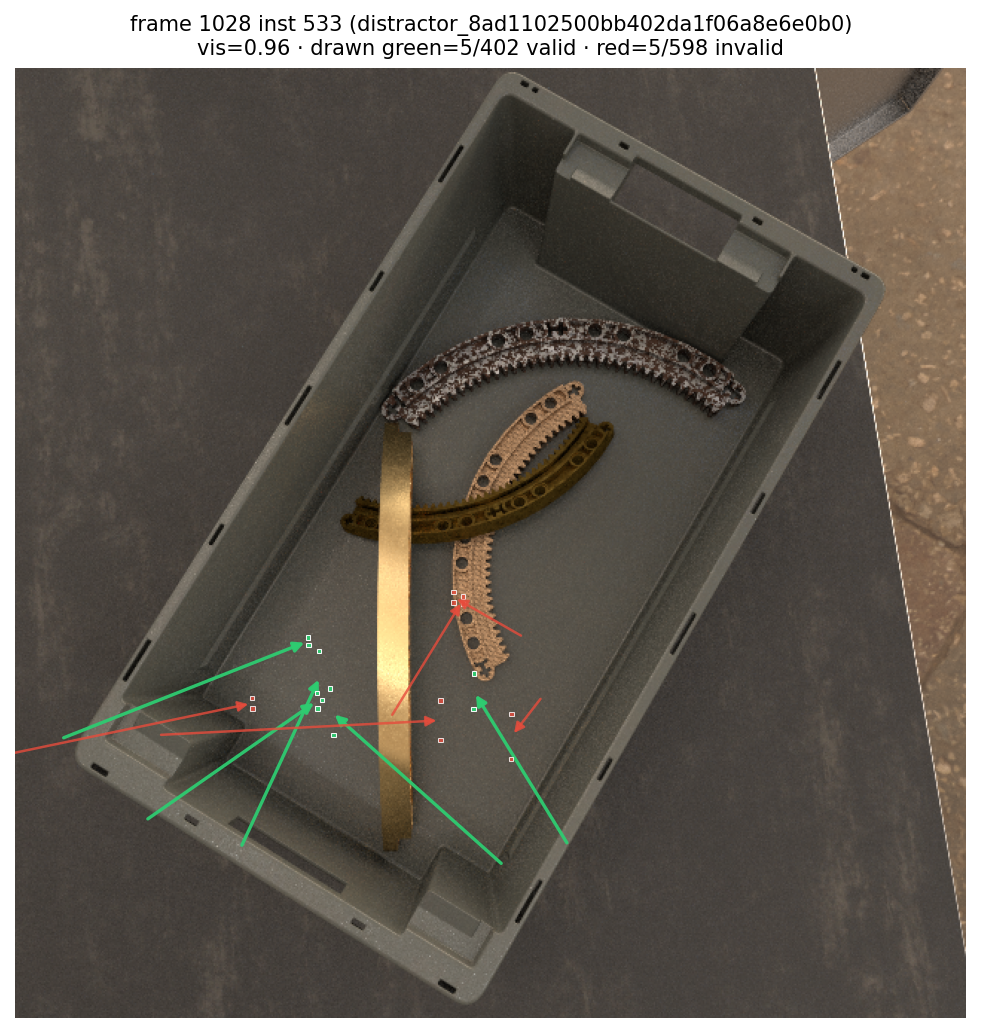
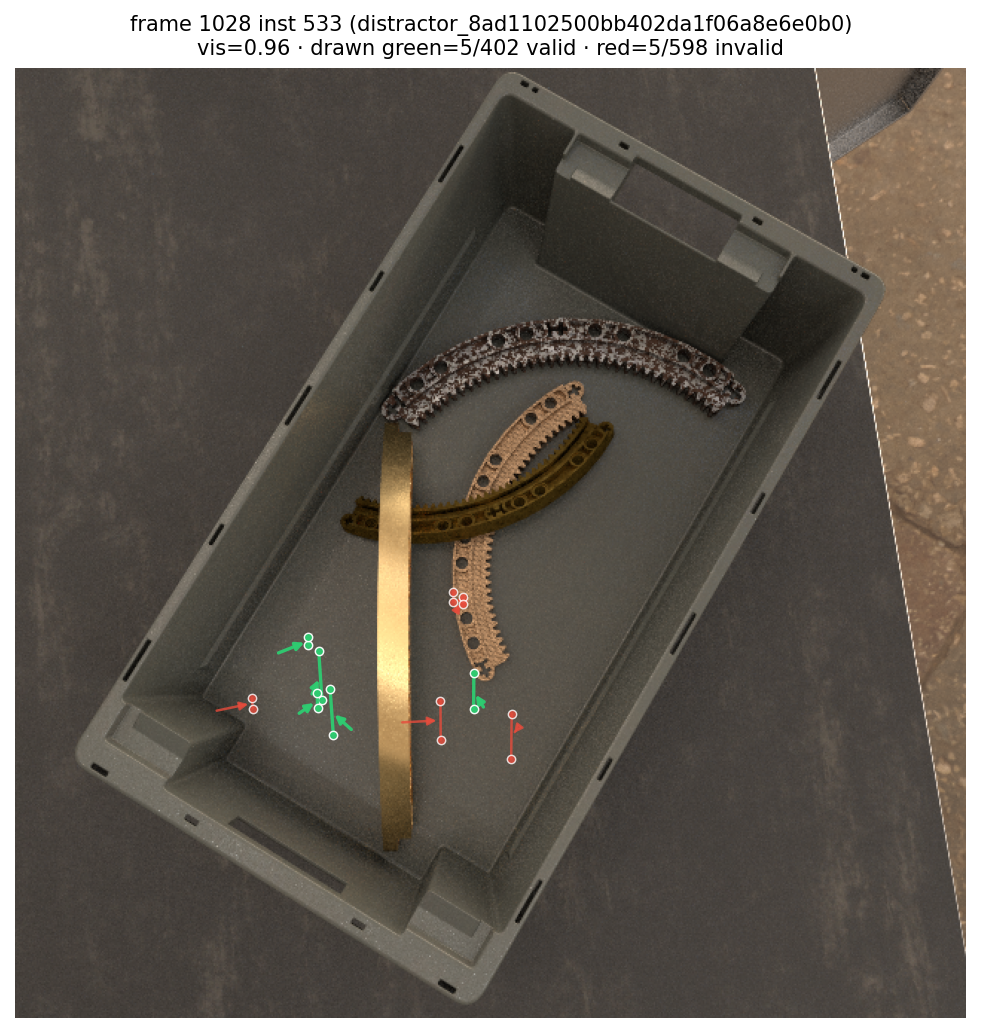
Fix grasp visualisation: anchor on midpoint, not gripper base
The previous arrow tail = gripper base (19.5 cm behind the grasp along the
approach axis) projected far from the part in image coords, making valid
grasps look like they were in empty space. The grasps themselves were
correctly located on the parts; only the visualisation was misleading.

New visualisation, all anchored at the grasp midpoint (where the part sits
between the fingers):
  - Short ~3 cm approach stub, arrow head AT the midpoint
  - Line segment + filled circles between the two finger contact points

diff --git a/scripts/grasp_dataset/visualize.py b/scripts/grasp_dataset/visualize.py
@@ -70,9 +70,17 @@ def _load_rgb(frame_dir: Path) -> np.ndarray:
 
 
 def _draw_one_grasp(ax, grasp_obj_4x4, T_obj2cam, K, color, width_m,
-                    tail_length=GRIPPER_DEPTH, lw=1.5, alpha=0.95, image_size=None):
-    """Draw one grasp on `ax`. Arrow tail = gripper base, head = grasp midpoint.
-    Two small squares at the finger contact points.
+                    approach_stub_m=0.03, lw=1.8, alpha=0.95, image_size=None):
+    """Draw one grasp on `ax`. Visualisation anchored at the GRASP MIDPOINT
+    (where the part sits between the fingers), NOT the gripper base (which is
+    GRIPPER_DEPTH=19.5 cm behind the grasp along approach — drawing the base
+    as the arrow tail makes grasps look like they're in empty space far from
+    the part, even though the grasp itself is correctly on the part).
+
+    Drawn elements (all near the part):
+      - Short approach STUB (~3 cm), tail in air, arrow head AT midpoint
+      - Line segment between the two finger contact points (closing line)
+      - Filled circles at the contact points themselves
     """
     g_cam = T_obj2cam @ np.asarray(grasp_obj_4x4)
     origin_cam = g_cam[:3, 3]   # gripper base
@@ -80,41 +88,42 @@ def _draw_one_grasp(ax, grasp_obj_4x4, T_obj2cam, K, color, width_m,
     z_axis_cam = g_cam[:3, 2]   # approach
     midpoint_cam = origin_cam + GRIPPER_DEPTH * z_axis_cam
 
-    # Skip grasps behind the camera (negative or near-zero Z)
-    if origin_cam[2] <= 0.05 or midpoint_cam[2] <= 0.05:
+    # Skip grasps behind / very close to camera
+    if midpoint_cam[2] <= 0.05:
         return False
 
-    # Project key points
+    # Short approach stub: starts approach_stub_m BEFORE midpoint along approach
+    stub_tail_cam = midpoint_cam - approach_stub_m * z_axis_cam
     pts3d = np.stack([
-        origin_cam,
+        stub_tail_cam,
         midpoint_cam,
-        midpoint_cam + 0.5 * width_m * x_axis_cam,   # left finger contact
-        midpoint_cam - 0.5 * width_m * x_axis_cam,   # right finger contact
+        midpoint_cam + 0.5 * width_m * x_axis_cam,   # +X finger contact
+        midpoint_cam - 0.5 * width_m * x_axis_cam,   # -X finger contact
     ])
     pts2d = _project(K, pts3d)
-    p_base, p_mid, p_left, p_right = pts2d
+    p_stub, p_mid, p_left, p_right = pts2d
 
-    # Bounds-check before drawing
+    # Bounds-check on midpoint only (the visual anchor)
     if image_size is not None:
         W, H = image_size
-        for p in (p_base, p_mid):
-            if not (-50 <= p[0] <= W + 50 and -50 <= p[1] <= H + 50):
-                return False
+        if not (-20 <= p_mid[0] <= W + 20 and -20 <= p_mid[1] <= H + 20):
+            return False
 
-    # Arrow from base → midpoint (approach line)
-    arrow = FancyArrowPatch(
-        (p_base[0], p_base[1]),
+    # Short approach stub: tail in air → head AT midpoint
+    ax.add_patch(FancyArrowPatch(
+        (p_stub[0], p_stub[1]),
         (p_mid[0], p_mid[1]),
-        color=color, arrowstyle="-|>", mutation_scale=10,
+        color=color, arrowstyle="-|>", mutation_scale=8,
         linewidth=lw, alpha=alpha,
-    )
-    ax.add_patch(arrow)
-    # Finger contact marks
-    s = 3
+    ))
+    # Closing line between the two contact points
+    ax.plot([p_left[0], p_right[0]], [p_left[1], p_right[1]],
+            color=color, linewidth=lw, alpha=alpha, solid_capstyle="round")
+    # Filled dots at the two contact points (where the gripper actually touches)
     for p in (p_left, p_right):
-        ax.add_patch(Rectangle((p[0] - s/2, p[1] - s/2), s, s,
-                                facecolor=color, edgecolor="white",
-                                linewidth=0.5, alpha=alpha))
+        ax.plot(p[0], p[1], marker='o', markersize=4,
+                markerfacecolor=color, markeredgecolor='white',
+                markeredgewidth=0.7, alpha=alpha)
     return True
 
 
